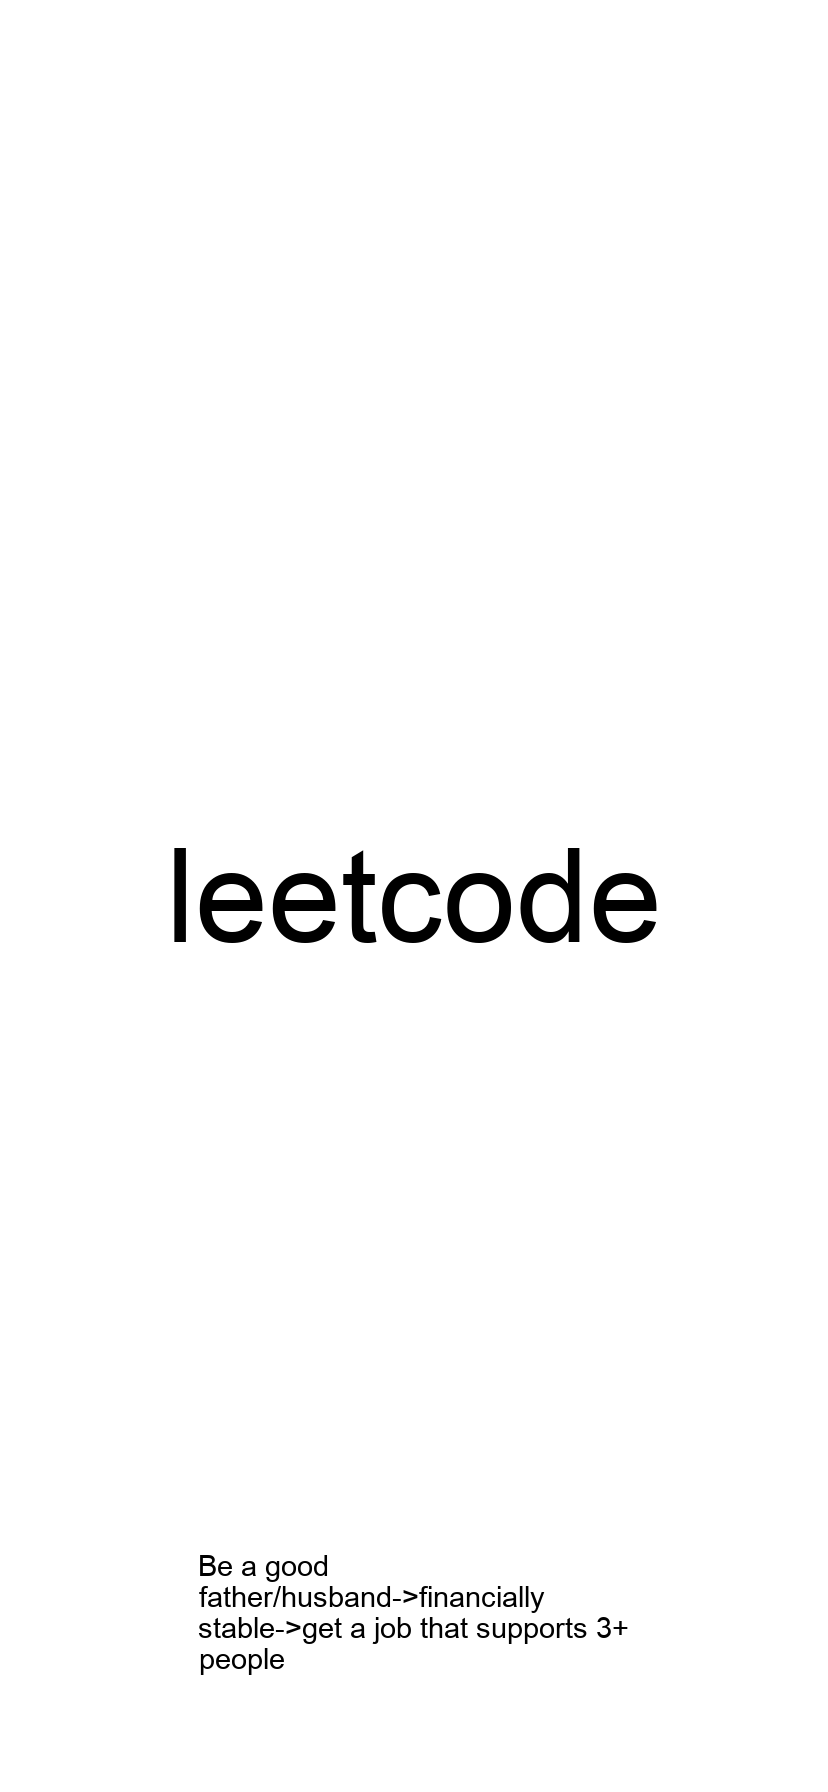
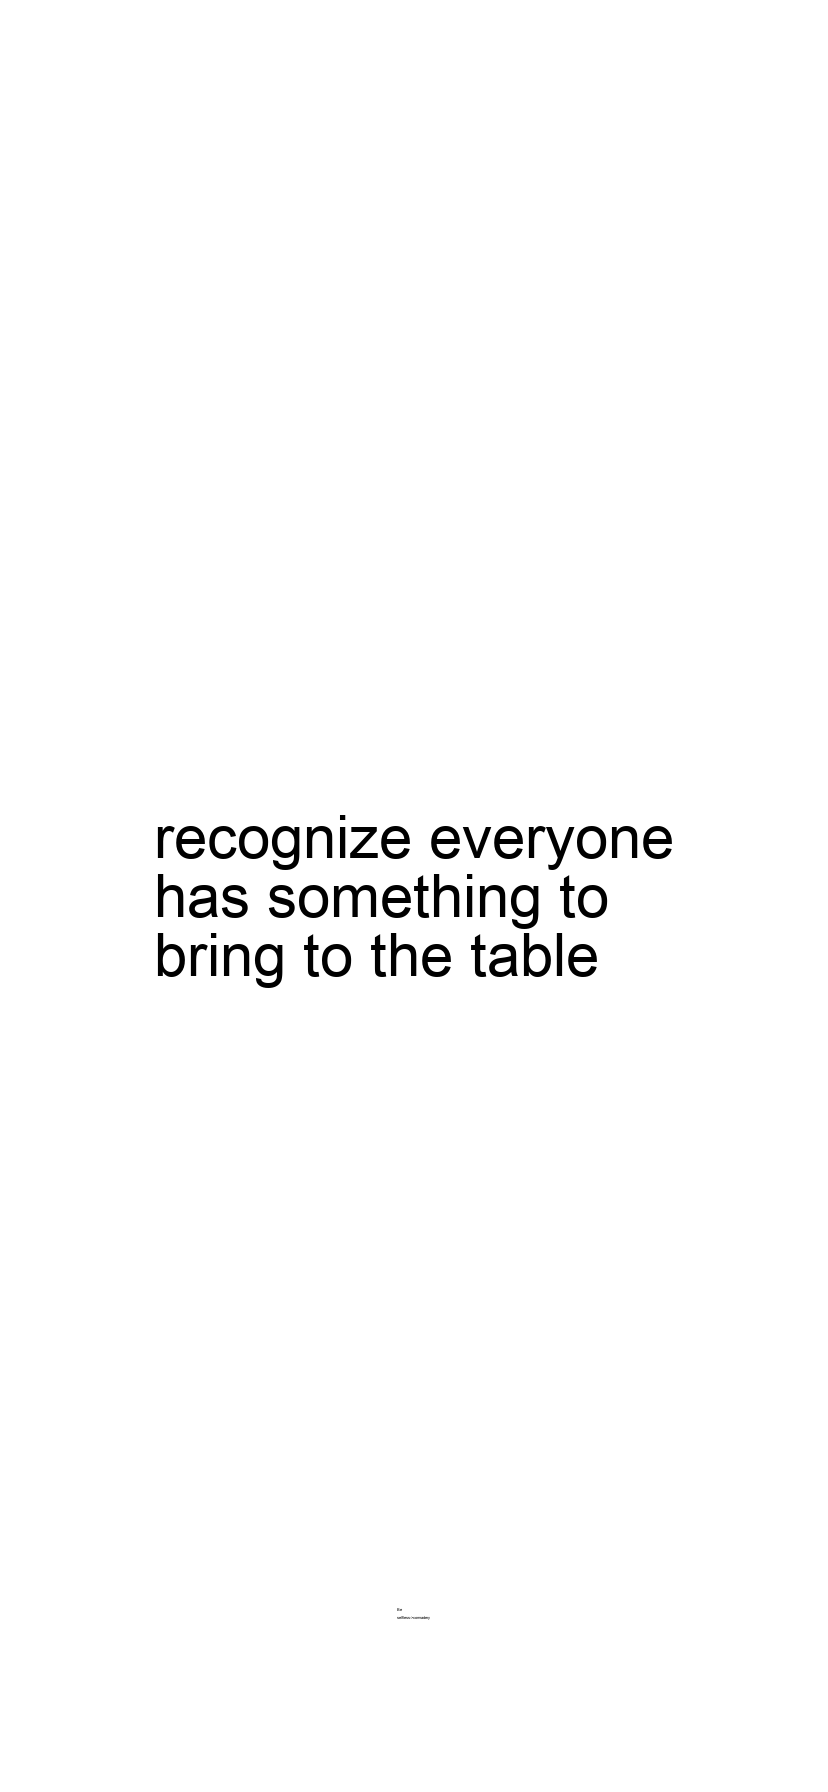
refactor formatting of json and interprettation, still have path sizing inconsistency on bottom

Changed region(s): [[0.1812, 0.4375, 0.8152, 0.5625], [0.2415, 0.8438, 0.6944, 0.9375]]

diff --git a/main.py b/main.py
@@ -12,6 +12,7 @@ with open("list.json") as list:
 
 cat_item = []
 selection = []
+sel_dict = {}
 paths = []
 tdl = []
 
@@ -21,11 +22,9 @@ def get_keys(input_dict):
         if isinstance(value, dict):
             for subkey in get_keys(value):
                 yield key + '->' + subkey
-        elif isinstance(value, str):
-            cat_item.append((key, value))
-            yield value
-        else:
-            yield key
+        cat_item.append(key)
+        yield key
+        
 
 def lookup_path(value):
     for item in paths:
@@ -68,8 +67,8 @@ hi = get_len()-1
 
 
 selected = random.randint(0, len(cat_item)-1)
-print(selected)
-ttp = cat_item[selected][1]
+
+ttp = cat_item[selected]
 
 char_len = len(ttp)
 width = 828
@@ -82,8 +81,8 @@ draw = ImageDraw.Draw(im)
 font_size = 1000
 font = ImageFont.truetype("Arial.ttf", font_size)
 
-
 text = ttp
+print(type(ttp))
 while font_size > 1:
   if font.getlength(text) < width*.6:
     break
@@ -103,8 +102,10 @@ elif text_l > 2:
     font = font.font_variant(size=font_size*text_l)
 
 draw.multiline_text((width / 2, height / 2), text, font=font, fill="black", anchor="mm")
-chosen_path = "->".join(lookup_path(ttp)[:-1])
-
+print(ttp)
+chosen_path = lookup_path(ttp)
+chosen_path = "->".join(chosen_path[:-1])
+print(chosen_path)
 
 font_size = 1000
 font2 = ImageFont.truetype("Arial.ttf", font_size)
@@ -114,13 +115,15 @@ while font_size > 1:
   font_size -= 1
   font2 = font2.font_variant(size=font_size)
 
-text2, text_l2 = get_wrapped_text(chosen_path, font2, line_length=((15*font_size)))
+text2, text_l2 = get_wrapped_text(chosen_path, font2, line_length=((10*font_size)))
 
-if text_l2 == 2:
-    font2 = font.font_variant(size=font_size*1.33)
+font2 = font2.font_variant(size=font_size*(text_l2/height*100)*text_l2)
 
-elif text_l2 > 2:
-    font2 = font.font_variant(size=font_size*0.225)
+# if text_l2 == 2:
+#     font2 = font2.font_variant(size=font_size*.66)
+
+# elif text_l2 > 2:
+#     font2 = font2.font_variant(size=font_size*0.225*text_l2)
 
 draw.multiline_text((width / 2, height-(height*0.1)), text=text2, font=font2, fill="black", anchor="mm" )
 im.save("static/out.png")
